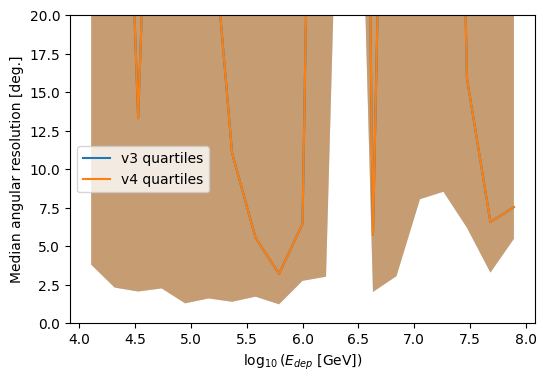
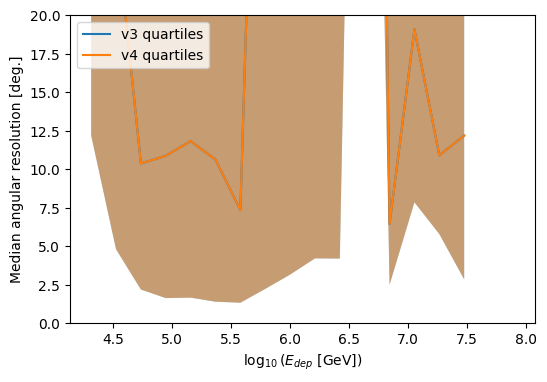
update plots

diff --git a/performance/plots/compare/v3_vs_v4/plot.py b/performance/plots/compare/v3_vs_v4/plot.py
@@ -26,6 +26,8 @@ def extract_data( nufile, key, hypo ):
     data["azi_reco"] = tf.get_node(f'/{key}').cols.azimuth[:][slc]
     data["loge_fit"] = np.log10(tf.get_node(f'/{fit_node_name(nufile)}').cols.energy[:][slc])
 
+    print(data["loge_fit"][:3])
+
     if hypo == "tau":
         data["cth_tru"] = np.cos(tf.root.cc.cols.zenith[:][slc])
         data["azi_tru"] = tf.root.cc.cols.azimuth[:][slc]
@@ -35,9 +37,9 @@ def extract_data( nufile, key, hypo ):
         data["azi_tru"] = tf.root.cascade.cols.azimuth[:][slc]
         data["loge_tru"] = np.log10(tf.root.cascade.cols.energy[:][slc])
     elif hypo == "track":
-        data["cth_tru"] = np.cos(tf.root.track.cols.zenith[:][slc])
-        data["azi_tru"] = tf.root.track.cols.azimuth[:][slc]
-        data["loge_tru"] = np.log10(tf.root.track.cols.energy[:][slc])
+        data["cth_tru"] = np.cos( tf.root.TrueZenith[slc]['value'] )
+        data["azi_tru"] = tf.root.TrueAzimuth[slc]['value']
+        data["loge_tru"] = np.log10( tf.root.TrueETot[slc]['value'] )
     else:
         print("hypo not found")
 
@@ -79,12 +81,23 @@ def compare_files_v3_vs_v4( nufiles, keys, labels, outpath, hypo ):
     plot_medangres( data, labels, outpath, bins = np.linspace(4,8,nbins) )
 
 
-# nufiles = ["/data/user/tvaneede/GlobalFit/reco_processing/hdf/output/v3/NuTau.h5", "/data/user/tvaneede/GlobalFit/reco_processing/hdf/output/v4/NuTau.h5"]
-# keys = ["TaupedeFit_iMIGRAD_PPB0", "TaupedeFit_iMIGRAD_PPB0"] 
-# labels = ["Taupede residual 1500", "Taupede residual 100000"]
-# outpath = "/data/user/tvaneede/GlobalFit/reco_processing/performance/plots/compare/v3_vs_v4/NuTau_Taupede"
-# hypo = "tau"
-# compare_files_v3_vs_v4(nufiles=nufiles, keys=keys, labels = labels,outpath=outpath, hypo=hypo)
+###
+### NuTau
+###
+
+nufiles = ["/data/user/tvaneede/GlobalFit/reco_processing/hdf/output/v3/NuTau.h5", "/data/user/tvaneede/GlobalFit/reco_processing/hdf/output/v4/NuTau.h5"]
+keys = ["TaupedeFit_iMIGRAD_PPB0", "TaupedeFit_iMIGRAD_PPB0"] 
+labels = ["Taupede residual 1500", "Taupede residual 100000"]
+outpath = "/data/user/tvaneede/GlobalFit/reco_processing/performance/plots/compare/v3_vs_v4/NuTau_Taupede"
+hypo = "tau"
+compare_files_v3_vs_v4(nufiles=nufiles, keys=keys, labels = labels,outpath=outpath, hypo=hypo)
+
+nufiles = ["/data/user/tvaneede/GlobalFit/reco_processing/hdf/output/v3/NuTau.h5", "/data/user/tvaneede/GlobalFit/reco_processing/hdf/output/v4/NuTau.h5"]
+keys = ["HESEMillipedeFit", "HESEMillipedeFit"] 
+labels = ["Taupede residual 1500", "Taupede residual 100000"]
+outpath = "/data/user/tvaneede/GlobalFit/reco_processing/performance/plots/compare/v3_vs_v4/NuTau_HESEMillipedeFit"
+hypo = "tau"
+compare_files_v3_vs_v4(nufiles=nufiles, keys=keys, labels = labels,outpath=outpath, hypo=hypo)
 
 # nufiles = ["/data/user/tvaneede/GlobalFit/reco_processing/hdf/output/v3/NuE.h5", "/data/user/tvaneede/GlobalFit/reco_processing/hdf/output/v4/NuE.h5"]
 # keys = ["MonopodFit_iMIGRAD_PPB0", "MonopodFit_iMIGRAD_PPB0"] 
@@ -93,11 +106,23 @@ def compare_files_v3_vs_v4( nufiles, keys, labels, outpath, hypo ):
 # hypo = "tau"
 # compare_files_v3_vs_v4(nufiles=nufiles, keys=keys, labels = labels,outpath=outpath, hypo=hypo)
 
-nufiles = ["/data/user/tvaneede/GlobalFit/reco_processing/hdf/output/v3/NuMu.h5", "/data/user/tvaneede/GlobalFit/reco_processing/hdf/output/v4/NuMu.h5"]
-keys = ["SPEFit16", "SPEFit16"] 
-labels = ["v3", "v4"]
-outpath = "/data/user/tvaneede/GlobalFit/reco_processing/performance/plots/compare/v3_vs_v4/NuMu_SPEFit"
-hypo = "track"
-compare_files_v3_vs_v4(nufiles=nufiles, keys=keys, labels = labels,outpath=outpath, hypo=hypo)
+###
+### NuMu
+###
+
+# nufiles = ["/data/user/tvaneede/GlobalFit/reco_processing/hdf/output/v3/NuMu.h5", "/data/user/tvaneede/GlobalFit/reco_processing/hdf/output/v4/NuMu.h5"]
+# keys = ["SPEFit16", "SPEFit16"] 
+# labels = ["v3", "v4"]
+# outpath = "/data/user/tvaneede/GlobalFit/reco_processing/performance/plots/compare/v3_vs_v4/NuMu_SPEFit"
+# hypo = "track"
+# compare_files_v3_vs_v4(nufiles=nufiles, keys=keys, labels = labels,outpath=outpath, hypo=hypo)
+
+# nufiles = ["/data/user/tvaneede/GlobalFit/reco_processing/hdf/output/v3/NuMu.h5", "/data/user/tvaneede/GlobalFit/reco_processing/hdf/output/v4/NuMu.h5"]
+# keys = ["HESEMillipedeFit", "HESEMillipedeFit"] 
+# labels = ["v3", "v4"]
+# outpath = "/data/user/tvaneede/GlobalFit/reco_processing/performance/plots/compare/v3_vs_v4/NuMu_HESEMillipedeFit"
+# hypo = "track"
+# compare_files_v3_vs_v4(nufiles=nufiles, keys=keys, labels = labels,outpath=outpath, hypo=hypo)
+
 
 
